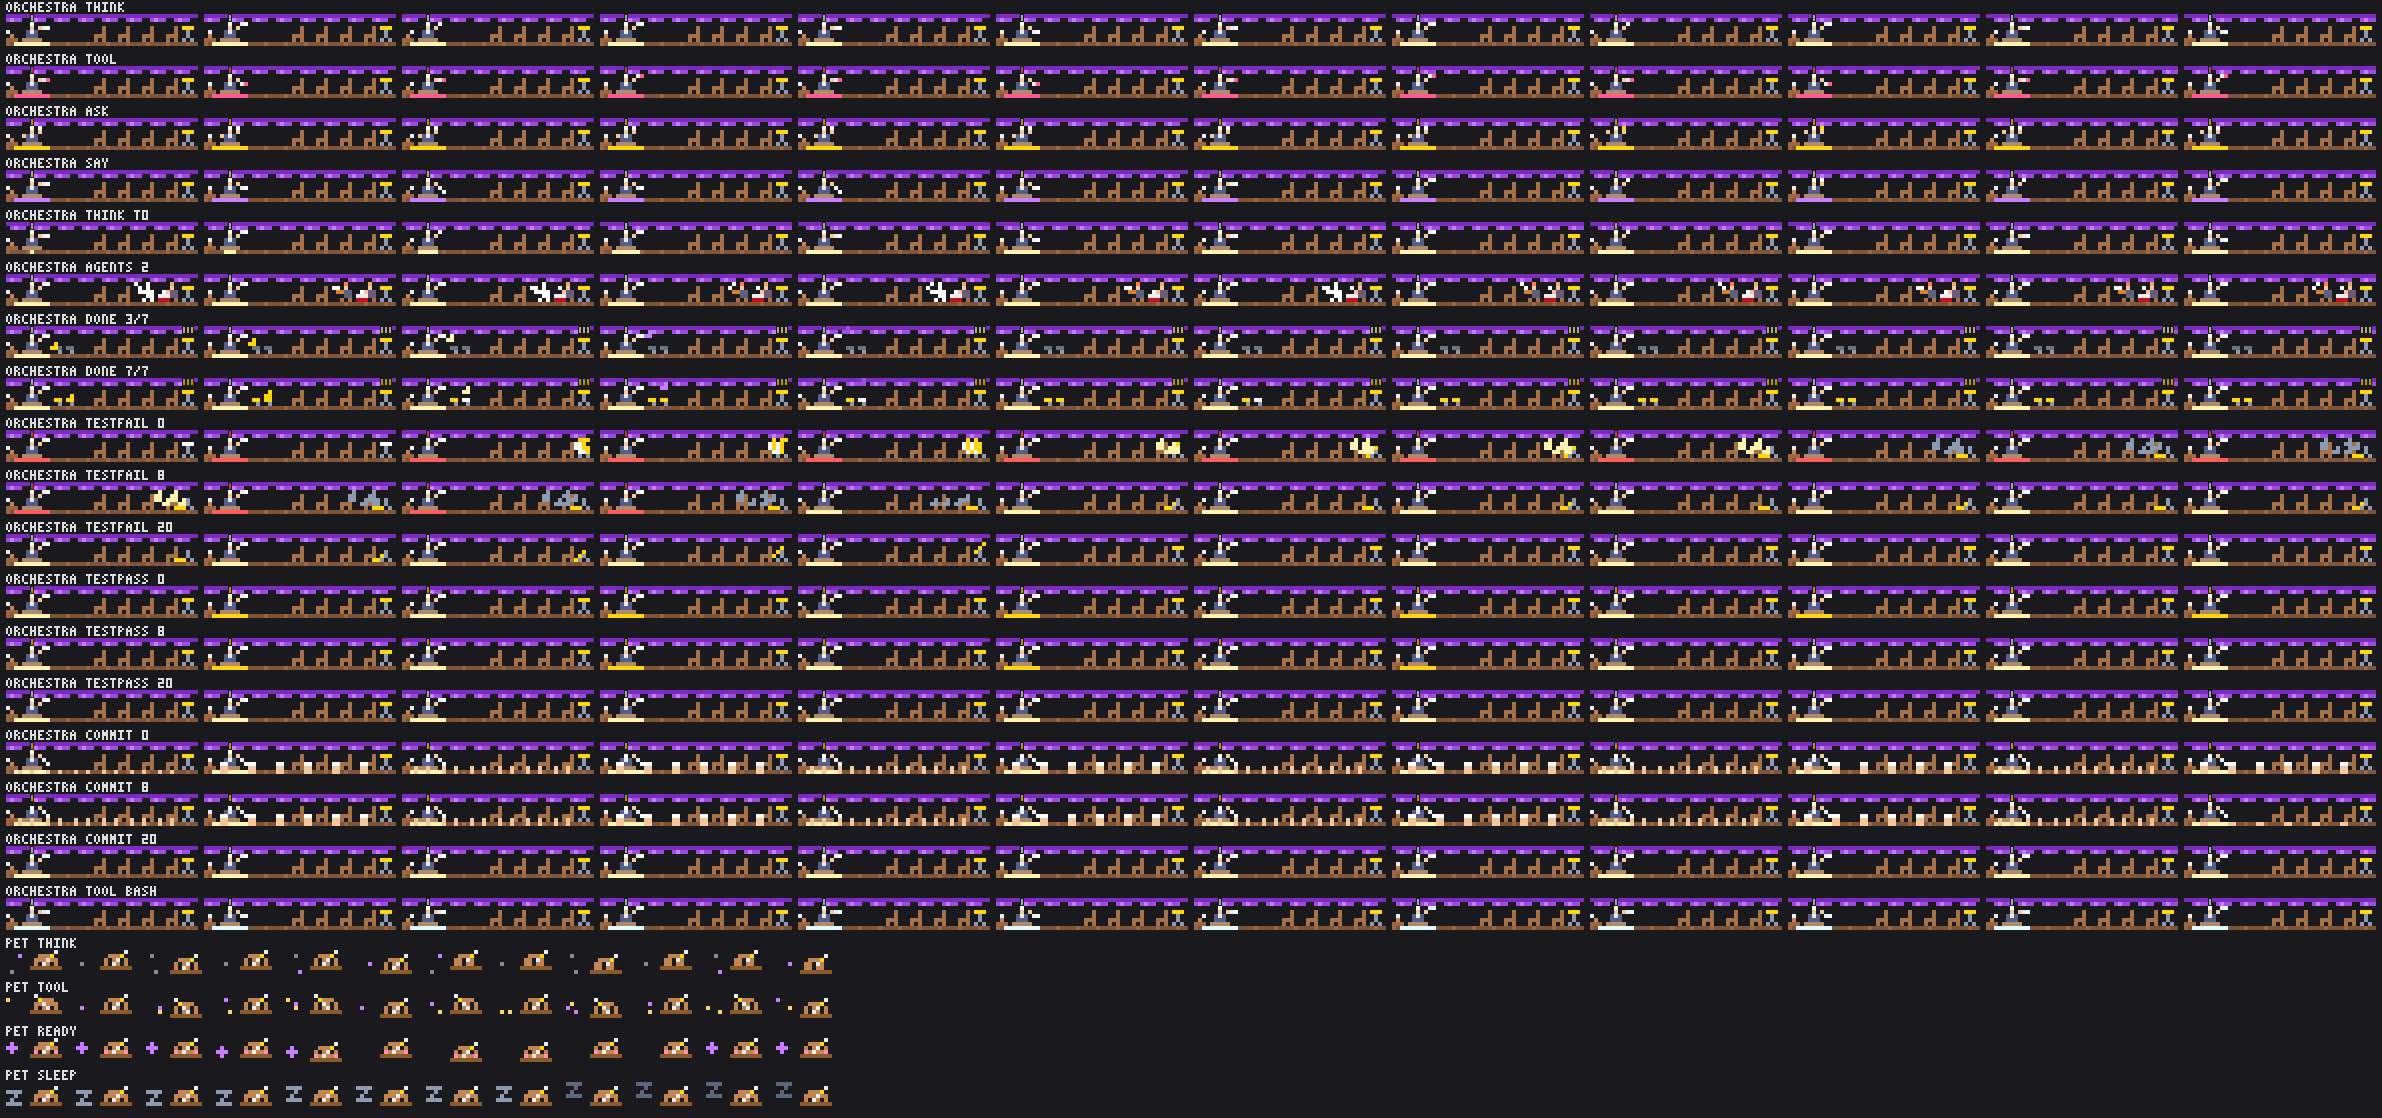
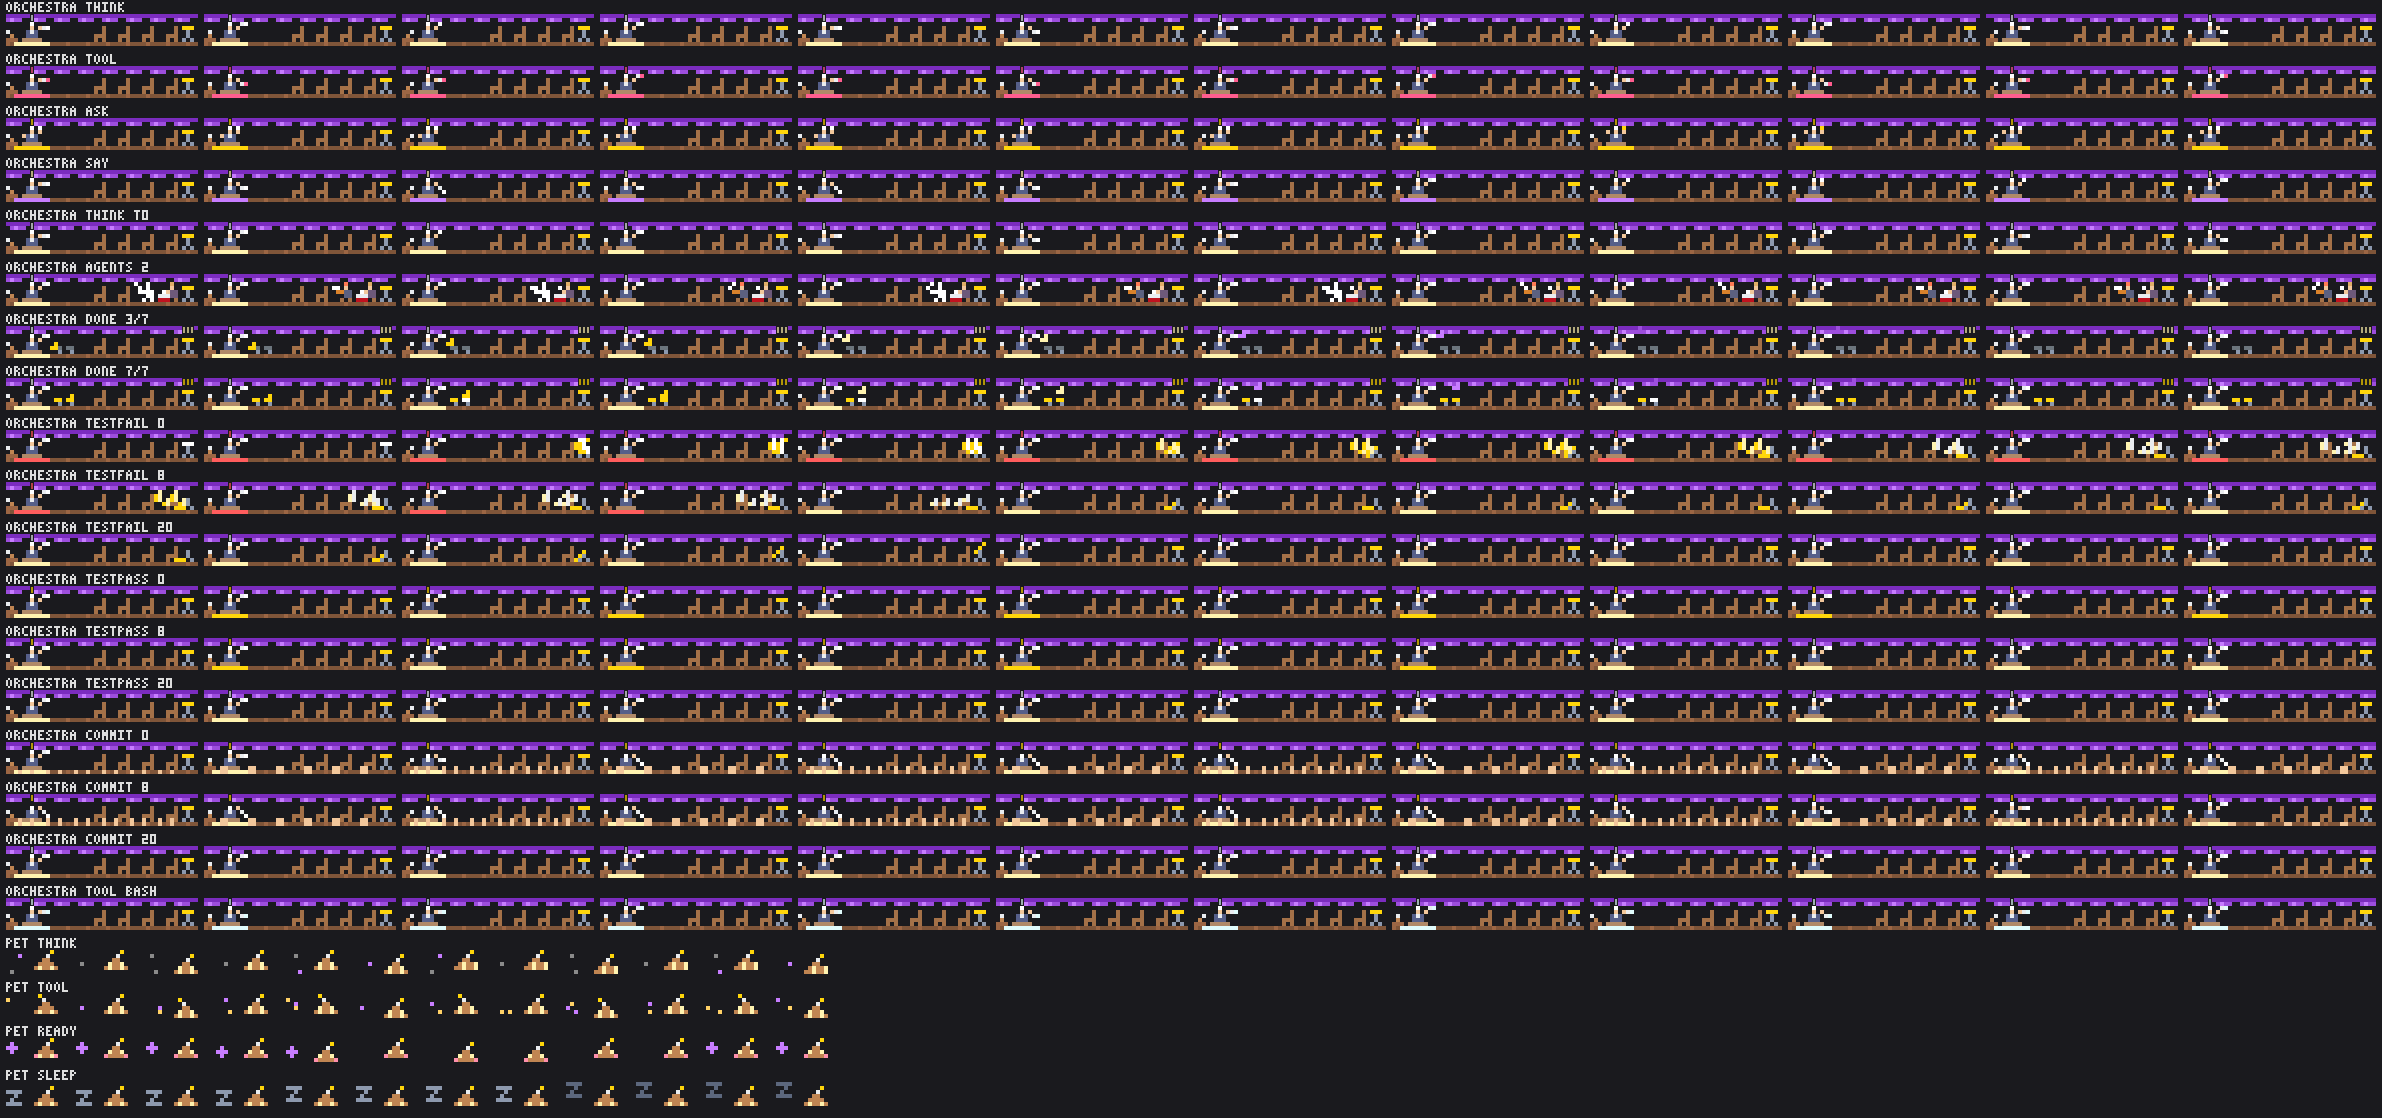
showtime: orchestra review fixes — the light pool keeps its full width in every act (a pale rim, only the act's or tool's colour core growing in on actAge), so an act change no longer collapses and regrows it; on a commit the baton eases down a pixel a frame from where it was when the news landed an

Changed region(s): [[0.0, 0.8515, 0.3417, 0.9428], [0.0, 0.9732, 0.3417, 1.0], [0.2175, 0.4258, 0.2485, 0.4562]]

diff --git a/showtime/hooks/themes/orchestra.ts b/showtime/hooks/themes/orchestra.ts
@@ -42,7 +42,7 @@ const TOOL_INK: Record<ToolKind, string> = {
   agent: '#bb9af7', web: '#7aa2f7', other: '#ff5d8f',
 }
 const TOOL_SIGN: Record<ToolKind, string> = {
-  bash: '$', edit: '✎', read: '¶', search: '⌕', agent: 'ᗣ', web: '◎', other: '✦',
+  bash: '$', edit: '+', read: '=', search: '%', agent: '&', web: '@', other: '!',
 }
 
 /** The fold pattern's period and the sway's cycle; the metronome's centre; the conductor's coat and hand. */
@@ -50,8 +50,8 @@ const [FOLD_W, SWAY_FRAMES, METRO_X, CON_X, HAND_X, HAND_Y] = [6, 24, 1, 5, 8, 3
 /** The light pool's centre and reach; the sign; where the stands start and their pitch; a seat's width. */
 const [POOL_X, POOL_R, SIGN_X, STAND_X, STAND_PITCH, SEAT_W] = [6, 4, 6, 12, 3, 6]
 const MAX_AGENTS = 4
-/** Frames: a musician's greeting, a lit stand's blink; the news. */
-const [GREET_FRAMES, NOTE_FRAMES] = [8, 8]
+/** Frames: a musician's greeting, a done note's life (and its stand's blink); the news. */
+const [GREET_FRAMES, NOTE_FRAMES] = [8, 10]
 const [FAIL_FRAMES, SCATTER_FRAMES, PASS_FRAMES, CLAP_FRAMES] = [12, 12, 16, 20]
 
 /** The baton's tip from the hand, a pixel a frame; every path starts at the same pose, so an act's first frame
@@ -108,9 +108,20 @@ function valance(cv: Canvas, t: number): void {
   }
 }
 
-/** The boards along px 7, a seam every five columns, lit around the podium out to `reach`. */
-function stage(cv: Canvas, light: string, reach: number): void {
-  for (let x = 0; x < cv.w; x++) plot(cv, x, 7, Math.abs(x - POOL_X) <= reach ? light : mod(x, 5) ? FLOOR : SEAM)
+/** The boards along px 7, a seam every five columns; the pool round the podium always POOL_R wide, pale at its
+ * rim, `light` in a core out to `core`. */
+function stage(cv: Canvas, light: string, core: number): void {
+  for (let x = 0; x < cv.w; x++) {
+    const d = Math.abs(x - POOL_X)
+    plot(cv, x, 7, d <= core ? light : d <= POOL_R ? PALE : mod(x, 5) ? FLOOR : SEAM)
+  }
+}
+
+/** `from` moved `n` pixels toward `to` in each coordinate, a pose easing a pixel a frame; never into the hand. */
+function toward(from: Pose, to: Pose, n: number): Pose {
+  const step = (a: number, b: number) => a + Math.sign(b - a) * Math.min(n, Math.abs(b - a))
+  const [x, y] = [step(from[0], to[0]), step(from[1], to[1])]
+  return x === 0 && y === 0 ? [1, 0] : [x, y]
 }
 
 /** The conductor on his podium: the head leaning `lean` or bowed, the baton at `pose`, the left hand when up. */
@@ -157,22 +168,21 @@ function musician(cv: Canvas, t: number, i: number, x: number, rest: boolean, fl
 /** A failed test's notes scattering from the cymbal a cell a frame at most, fading, gone off the stage's air. */
 function scatter(cv: Canvas, cx: number, age: number): void {
   if (age < 2 || age > SCATTER_FRAMES) return
-  const c = age < 5 ? GOLD : age < 9 ? PALE : STEEL
+  const c = age < 5 ? WHITE : age < 9 ? PALE : SHIRT
   SCATTER.forEach(([vx, vy], k) => {
     const x = cx - Math.floor(vx * age)
     const y = 2 + (k % 3) + Math.trunc(vy * age)
-    if (y >= 2 && y <= 5) draw(cv, x, y, NOTE, { S: c, H: c === GOLD ? WHITE : c })
+    if (y >= 2 && y <= 5) draw(cv, x, y, NOTE, { S: c, H: age < 9 ? GOLD : PALE })
   })
 }
 
-/** The applause: a pair of hands every seven columns along the bottom, rising, clapping on a 2-frame cycle,
- * a spark over each clap. */
+/** The applause: a pair of hands every seven columns in the front row (px 6-7), rising a pixel, clapping on a
+ * 2-frame cycle (each hand a column in and out), sinking at the end. */
 function applause(cv: Canvas, age: number): void {
   const top = 6 + Math.max(0, 1 - age, age - (CLAP_FRAMES - 2))
   const shut = mod(age, 2) === 1
   for (let x = 3; x + 3 < cv.w; x += 7) {
     for (const hx of shut ? [x + 1, x + 2] : [x, x + 3]) for (let y = top; y <= 7; y++) plot(cv, hx, y, SKIN)
-    if (shut && top < 7) draw(cv, x + 1, top - 1, ['WW'], { W: WHITE })
   }
 }
 
@@ -208,7 +218,7 @@ export function orchestraScene(t: number, w: number, s: Signals): Grid {
   let light = { think: PALE, tool: TOOL_INK[tool], ask: GOLD, say: LILAC, wait: STEEL }[s.act]
   if (fail && s.newsAge < FAIL_FRAMES) light = RED
   else if (pass) light = mod(t, 2) ? GOLD : PALE
-  stage(cv, light, fail || pass || clap ? POOL_R : Math.min(POOL_R, age))
+  stage(cv, light, (fail && s.newsAge < FAIL_FRAMES) || pass ? POOL_R : Math.min(POOL_R, age))
   // The metronome at the corner, ticking a cell a frame.
   plot(cv, METRO_X + frame([-1, 0, 1, 0], t), 4, SHIRT)
   plot(cv, METRO_X, 5, WOOD)
@@ -216,24 +226,28 @@ export function orchestraScene(t: number, w: number, s: Signals): Grid {
   // Layer 3: the conductor, beating from the shared pose; bowing to the applause.
   const path = BATON[s.act]
   const held = s.act === 'ask' || s.act === 'wait'
-  let pose = held ? path[Math.min(age, path.length - 1)]! : frame(path, age)
+  const poseAt = (a: number) => (held ? path[Math.min(a, path.length - 1)]! : frame(path, a))
+  let pose = poseAt(age)
   const bowed = clap && s.newsAge >= 2 && s.newsAge < 16
-  if (clap) pose = BATON.wait[2]!
+  // On a commit the baton eases down from where it was when the news landed, and back up to the beat at the end.
+  const rest = BATON.wait[2]!
+  if (clap && s.newsAge < CLAP_FRAMES - 4) pose = toward(poseAt(Math.max(0, age - s.newsAge)), rest, s.newsAge)
+  else if (clap) pose = toward(rest, pose, s.newsAge - (CLAP_FRAMES - 4))
   const lean = s.act === 'wait' && !clap && mod(t, 16) >= 8 ? 1 : 0
   const left = s.act === 'ask' && age >= 2 ? (mod(t, 12) < 4 ? 3 : 4) : 0
   const twinkle = s.act === 'ask' && mod(t, 12) < 2
   conductor(cv, pose, lean, bowed, left, s.act === 'tool' ? TOOL_INK[tool] : twinkle ? GOLD : WHITE)
-  // The stands, `done` of them lit, the newest blinking as it is done while a note lifts off it a pixel a frame,
-  // fading into the valance.
+  // The stands, `done` of them lit, the newest blinking as it is done while a note lifts off it a pixel every
+  // other frame, fading into the valance.
   const sheet = pass || allDone ? GOLD : PALE
   for (let j = 0; j < count; j++) {
     const x = STAND_X + STAND_PITCH * j
     const blink = j === lit - 1 && s.doneAge < NOTE_FRAMES && mod(s.doneAge, 2) === 0
     draw(cv, x, 5, ['SS', '.P'], { S: blink ? WHITE : j < lit ? sheet : DIM, P: STEEL })
   }
-  if (s.done > 0 && s.doneAge < 5) {
-    const c = frame([GOLD, GOLD, PALE, LILAC, FOLD], s.doneAge)
-    draw(cv, lit > 0 ? STAND_X + STAND_PITCH * (lit - 1) : STAND_X - 1, 4 - s.doneAge, NOTE, { S: c, H: c })
+  if (s.done > 0 && s.doneAge < NOTE_FRAMES) {
+    const c = frame([GOLD, GOLD, PALE, LILAC, FOLD], s.doneAge >> 1)
+    draw(cv, lit > 0 ? STAND_X + STAND_PITCH * (lit - 1) : STAND_X - 1, 4 - (s.doneAge >> 1), NOTE, { S: c, H: c })
   }
   // Layer 4: the musicians in their seats (empty chairs past the agents), the cymbal, a failed test's notes.
   const n = Math.min(s.agents, MAX_AGENTS)
@@ -257,14 +271,15 @@ export function orchestraScene(t: number, w: number, s: Signals): Grid {
   return g
 }
 
-/** A metronome: a tapered wooden case on its base, the silver arm swinging from the foot, a gold weight on it. */
+/** A metronome: a narrow wooden pyramid, the pendulum standing out of its apex, swinging, a gold weight at its
+ * tip; pale eyes low on the case. */
 export const PET: PetArt = {
-  body: ['........A...', '....WWWG....', '...WWWAWW...', '...WWAWWW...', '..DDDDDDDD..'],
-  step: ['...A........', '....GWWW....', '...WWAWWW...', '...WWWAWW...', '..DDDDDDDD..'],
-  colors: { W: WOOD, D: '#8b5a2b', A: SHIRT, G: GOLD },
+  body: ['.......G....', '......A.....', '.....WW.....', '....WWWW....', '...WWWWWW...'],
+  step: ['....G.......', '.....A......', '.....WW.....', '....WWWW....', '...WWWWWW...'],
+  colors: { W: WOOD, A: SHIRT, G: GOLD },
   eyes: [4, 7],
-  eyeRow: 2,
-  eye: '#1d1d1d',
+  eyeRow: 3,
+  eye: PALE,
   lid: WOOD,
   blush: '#ff8fab',
   spark: LILAC,
